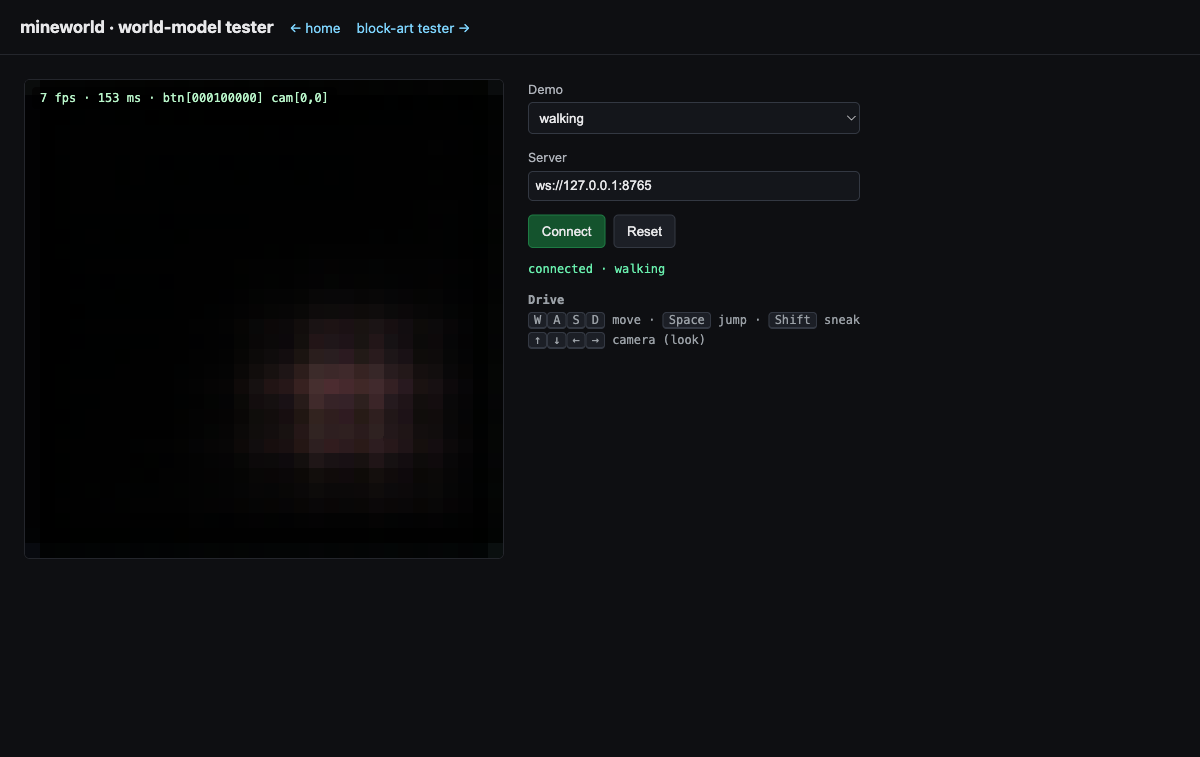
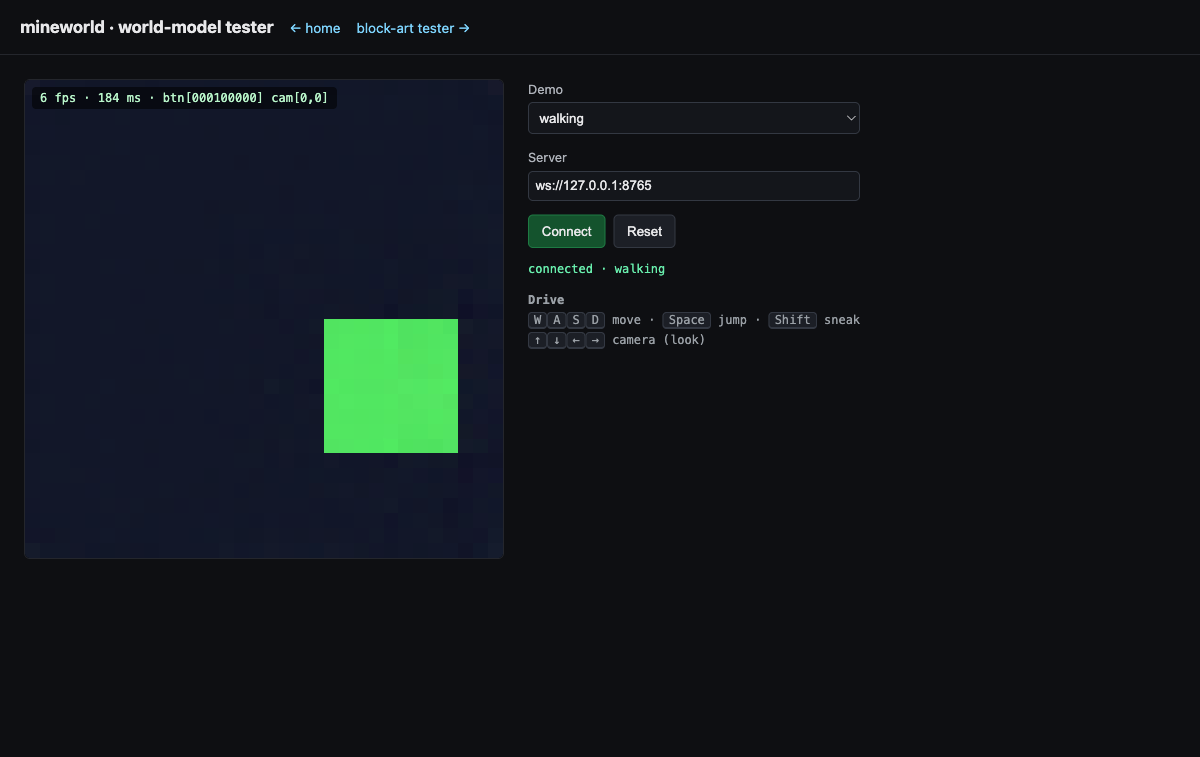
goal/006-web-tester: world-model output quality fix (was 'really bad')
The served frames were a muddy blob. Fixed three root causes:
- env: 3x3 white speck -> big high-contrast colored agent (crisp to tokenize);
  MovingDotEnv gains agent_size/agent_color/bg_color; demo_env/demo_init_frame
- tokenizer: bigger codebook (128->256) + channels (24->48) + latent_channels 6
  -> recon-mse 0.0000 (crisp decode)
- autoregressive drift: train on the DENSE step-aligned grid of states the rollout
  actually visits (clamped to a padded interior) -> 100% free-gen token accuracy,
  stable multi-step rollout (gen-frame-L1 0.0025)
- session.reset() seeds from a centered-agent frame (valid rollout start)
- fix e2e centroid background-bias bug
Result: crisp green agent slides cleanly under WASD, re-verified live in browser.

Changed region(s): [[0.0, 0.0911, 0.4317, 0.7596]]

diff --git a/ml/src/mineworld_wm/train_demo.py b/ml/src/mineworld_wm/train_demo.py
@@ -13,7 +13,7 @@ from pathlib import Path
 import torch
 
 from .demos import build_demo_session
-from .data import MovingDotEnv
+from .data import demo_env
 
 DIRS = {0: (0, -1), 1: (0, 1), 2: (-1, 0), 3: (1, 0)}  # up/down/left/right deltas
 
@@ -27,18 +27,31 @@ def centroid(frame: torch.Tensor) -> tuple[float, float]:
 
 
 def build_pairs(size: int, n_buttons: int, n_pos: int, step: float, seed: int):
-    env = MovingDotEnv(size=size, n_buttons=n_buttons, step=step)
-    g = torch.Generator().manual_seed(seed)
+    """Dense, step-aligned coverage so the free-running rollout never leaves the
+    trained distribution (avoids autoregressive drift). The agent lives on a grid
+    of positions spaced `step` apart and is clamped to a padded interior — so it
+    slides to a wall and stays there (a trained, stable state) instead of drifting.
+    """
+    env = demo_env(size=size, n_buttons=n_buttons, step=step)
+    pad = 8
+    s = int(step)
+    lo, hi = pad, size - pad
+    grid = list(range(lo, hi + 1, s))  # exactly the centers the rollout can occupy
+
+    def clamp(v: int) -> int:
+        return max(lo, min(hi, v))
+
     pairs = []
-    for _ in range(n_pos):
-        x = float(torch.randint(8, size - 8, (1,), generator=g).item())
-        y = float(torch.randint(8, size - 8, (1,), generator=g).item())
-        for d, (dx, dy) in DIRS.items():
-            ft = env._render(x, y)
-            ft1 = env._render(x + dx * env.step, y + dy * env.step)
-            btn = torch.zeros(n_buttons)
-            btn[d] = 1.0
-            pairs.append((ft, btn, torch.zeros(2), ft1, d))
+    for x in grid:
+        for y in grid:
+            for d, (dx, dy) in DIRS.items():
+                nx = clamp(x + dx * s)
+                ny = clamp(y + dy * s)
+                ft = env._render(x, y)
+                ft1 = env._render(nx, ny)
+                btn = torch.zeros(n_buttons)
+                btn[d] = 1.0
+                pairs.append((ft, btn, torch.zeros(2), ft1, d))
     return pairs
 
 
@@ -46,8 +59,8 @@ def main(argv: list[str] | None = None) -> int:
     ap = argparse.ArgumentParser("mineworld_wm.train_demo")
     ap.add_argument("--demo", default="walking")
     ap.add_argument("--kind", default="ar", choices=["ar", "diffusion"])
-    ap.add_argument("--steps", type=int, default=400)
-    ap.add_argument("--tok-steps", type=int, default=300)
+    ap.add_argument("--steps", type=int, default=600)
+    ap.add_argument("--tok-steps", type=int, default=600)
     ap.add_argument("--out", default="checkpoints/walking.pt")
     ap.add_argument("--seed", type=int, default=0)
     args = ap.parse_args(argv)
@@ -92,9 +105,12 @@ def main(argv: list[str] | None = None) -> int:
             first = loss.item()
         last = loss.item()
 
-    # 3) action-correctness check via the live session
+    # 3) action-correctness + crispness check via the live session
     correct = 0
-    for ft, b, c, _ft1, d in pairs:
+    gen_err = 0.0
+    with torch.no_grad():
+        recon_mse = torch.nn.functional.mse_loss(tok(frames).recon, frames).item()
+    for ft, b, c, ft1, d in pairs:
         session.reset(ft)
         res = session.step(b, c)
         cx0, cy0 = centroid(ft)
@@ -102,13 +118,16 @@ def main(argv: list[str] | None = None) -> int:
         dx, dy = DIRS[d]
         moved = (dx != 0 and (cx1 - cx0) * dx > 0.3) or (dy != 0 and (cy1 - cy0) * dy > 0.3)
         correct += int(moved)
+        gen_err += torch.nn.functional.l1_loss(res.frame, ft1).item()
     acc = correct / len(pairs)
+    gen_err /= len(pairs)
 
     out = Path(args.out)
     out.parent.mkdir(parents=True, exist_ok=True)
     torch.save({"config": cfg.to_dict(), "demo": args.demo, "kind": args.kind,
                 "tokenizer": tok.state_dict(), "action": enc.state_dict(), "transition": trans.state_dict()}, out)
-    print(f"[train_demo] {args.demo}/{args.kind}  loss {first:.3f}->{last:.3f}  action-correct {acc:.2f}  → {out}")
+    print(f"[train_demo] {args.demo}/{args.kind}  trans-loss {first:.3f}->{last:.3f}  "
+          f"recon-mse {recon_mse:.4f}  gen-frame-L1 {gen_err:.4f}  action-correct {acc:.2f}  → {out}")
     return 0 if acc > 0.6 else 1
 
 

diff --git a/ml/src/mineworld_wm/data.py b/ml/src/mineworld_wm/data.py
@@ -27,23 +27,40 @@ class Rollout:
 
 
 class MovingDotEnv:
-    """Deterministic moving-dot world. button[0..3] = up/down/left/right nudges;
-    camera (dx, dy) adds continuous motion. Frame = a 3×3 bright patch at the dot."""
+    """Deterministic moving-agent world. button[0..3] = up/down/left/right nudges;
+    camera (dx, dy) adds continuous motion. Frame = a solid colored square (the
+    agent) on a solid background. A larger, high-contrast colored agent is far
+    easier for a small tokenizer to reconstruct crisply than a 3×3 white speck."""
 
-    def __init__(self, size: int = 32, n_buttons: int = 9, step: float = 3.0):
+    def __init__(
+        self,
+        size: int = 32,
+        n_buttons: int = 9,
+        step: float = 3.0,
+        agent_size: int = 3,
+        agent_color: tuple[float, float, float] = (1.0, 1.0, 1.0),
+        bg_color: tuple[float, float, float] = (0.0, 0.0, 0.0),
+    ):
         self.size = size
         self.n_buttons = n_buttons
         self.step = step
+        self.agent_size = agent_size
+        self.agent_color = agent_color
+        self.bg_color = bg_color
 
     def _render(self, x: float, y: float) -> torch.Tensor:
-        img = torch.zeros(3, self.size, self.size)
+        img = torch.empty(3, self.size, self.size)
+        for c in range(3):
+            img[c].fill_(self.bg_color[c])
         cx = int(round(x))
         cy = int(round(y))
-        for dy in (-1, 0, 1):
-            for dx in (-1, 0, 1):
+        r = self.agent_size // 2
+        for dy in range(-r, r + 1):
+            for dx in range(-r, r + 1):
                 px = min(max(cx + dx, 0), self.size - 1)
                 py = min(max(cy + dy, 0), self.size - 1)
-                img[:, py, px] = 1.0
+                for c in range(3):
+                    img[c, py, px] = self.agent_color[c]
         return img
 
     def rollout(self, seq_len: int, generator: torch.Generator) -> Rollout:
@@ -75,6 +92,20 @@ class MovingDotEnv:
             x = min(max(x, 0.0), s - 1.0)
             y = min(max(y, 0.0), s - 1.0)
         return Rollout(torch.stack(frames), torch.stack(buttons), torch.stack(camera))
+
+
+# Canonical demo agent (shared by train_demo + the server's reset frame so the
+# interactive rollout starts from a valid centered-agent state).
+DEMO_AGENT = dict(agent_size=9, agent_color=(0.32, 0.9, 0.38), bg_color=(0.07, 0.09, 0.16))
+
+
+def demo_env(size: int = 32, n_buttons: int = 9, step: float = 4.0) -> MovingDotEnv:
+    return MovingDotEnv(size=size, n_buttons=n_buttons, step=step, **DEMO_AGENT)
+
+
+def demo_init_frame(size: int = 32) -> torch.Tensor:
+    """A centered-agent frame to seed the interactive rollout."""
+    return demo_env(size)._render(size / 2, size / 2)
 
 
 def make_rollouts(n: int, seq_len: int, size: int = 32, n_buttons: int = 9, seed: int = 0) -> list[Rollout]:

diff --git a/ml/src/mineworld_wm/serve.py b/ml/src/mineworld_wm/serve.py
@@ -54,11 +54,13 @@ class WorldModelSession:
         self.step_idx = 0
         # cached state (the rollout cache): prev tokens (AR) or prev latent (diffusion)
         self._prev: torch.Tensor | None = None
+        # default seed frame for reset() (set by load_demo_session to a centered agent)
+        self.default_init: torch.Tensor | None = None
 
     @torch.no_grad()
     def reset(self, init_frame: torch.Tensor | None = None) -> StepResult:
         if init_frame is None:
-            init_frame = torch.zeros(3, self.size, self.size)
+            init_frame = self.default_init if self.default_init is not None else torch.zeros(3, self.size, self.size)
         x = init_frame.unsqueeze(0)
         if self.kind == "ar":
             self._prev = self.tok.tokenize(x).flatten(1)  # (1, N)
@@ -138,6 +140,10 @@ def load_demo_session(demo: str, checkpoint: str | None = None, seed: int = 0, k
         session.tok.load_state_dict(ckpt["tokenizer"])
         session.enc.load_state_dict(ckpt["action"])
         session.trans.load_state_dict(ckpt["transition"])
+    # seed reset() from a centered-agent frame so the interactive rollout starts valid
+    from .data import demo_init_frame
+
+    session.default_init = demo_init_frame(session.size)
     return session
 
 

diff --git a/ml/src/mineworld_wm/demos.py b/ml/src/mineworld_wm/demos.py
@@ -69,10 +69,12 @@ class DemoEncoder(nn.Module):
 def demo_config(spec: DemoSpec, image_size: int = 32, kind: str | None = None) -> Config:
     k = kind or spec.kind
     cfg = Config()
-    cfg.tokenizer = TokenizerConfig(image_size=image_size, base_channels=24, latent_channels=4, downsample=4,
-                                    vq_codebook_size=128 if k == "ar" else 0)
+    # downsample=4 → 8×8 = 64 tokens (keeps AR generation fast); bigger codebook +
+    # channels keep the decode crisp despite the heavy compression.
+    cfg.tokenizer = TokenizerConfig(image_size=image_size, base_channels=48, latent_channels=6, downsample=4,
+                                    vq_codebook_size=256 if k == "ar" else 0)
     cfg.action = ActionConfig(embed_dim=64)
-    cfg.dynamics = DynamicsConfig(kind=k, dim=96 if k == "ar" else 48, depth=3, heads=4, diffusion_steps=8)
+    cfg.dynamics = DynamicsConfig(kind=k, dim=128 if k == "ar" else 64, depth=3, heads=4, diffusion_steps=8)
     cfg.demo.name = spec.name
     cfg.demo.active_buttons = list(spec.active_buttons)
     return cfg

diff --git a/ml/tests/test_live_e2e.py b/ml/tests/test_live_e2e.py
@@ -29,10 +29,13 @@ def ensure_checkpoint() -> Path:
 
 
 def centroid_x(png_b64: str) -> float:
+    # threshold out the (non-black) background so we track the bright agent only
     im = np.asarray(Image.open(io.BytesIO(base64.b64decode(png_b64))).convert("L"), dtype=float)
-    xs = np.arange(im.shape[1])
-    col = im.sum(0)
-    return float((col * xs).sum() / (col.sum() + 1e-6))
+    mask = im > 90  # agent luma ~170, background ~24
+    if mask.sum() < 1:
+        return 0.0
+    xs = np.arange(im.shape[1])[None, :]
+    return float((xs * mask).sum() / mask.sum())
 
 
 async def _drive():
